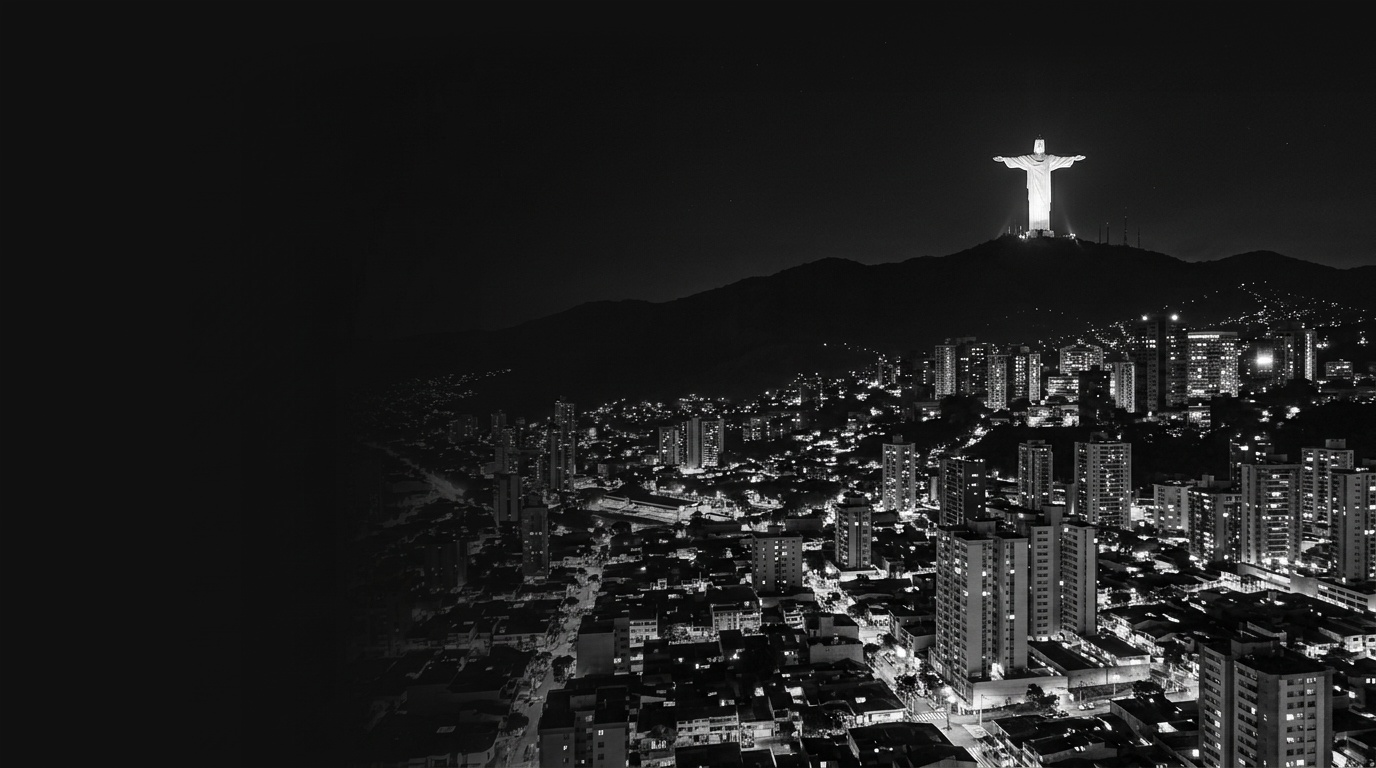
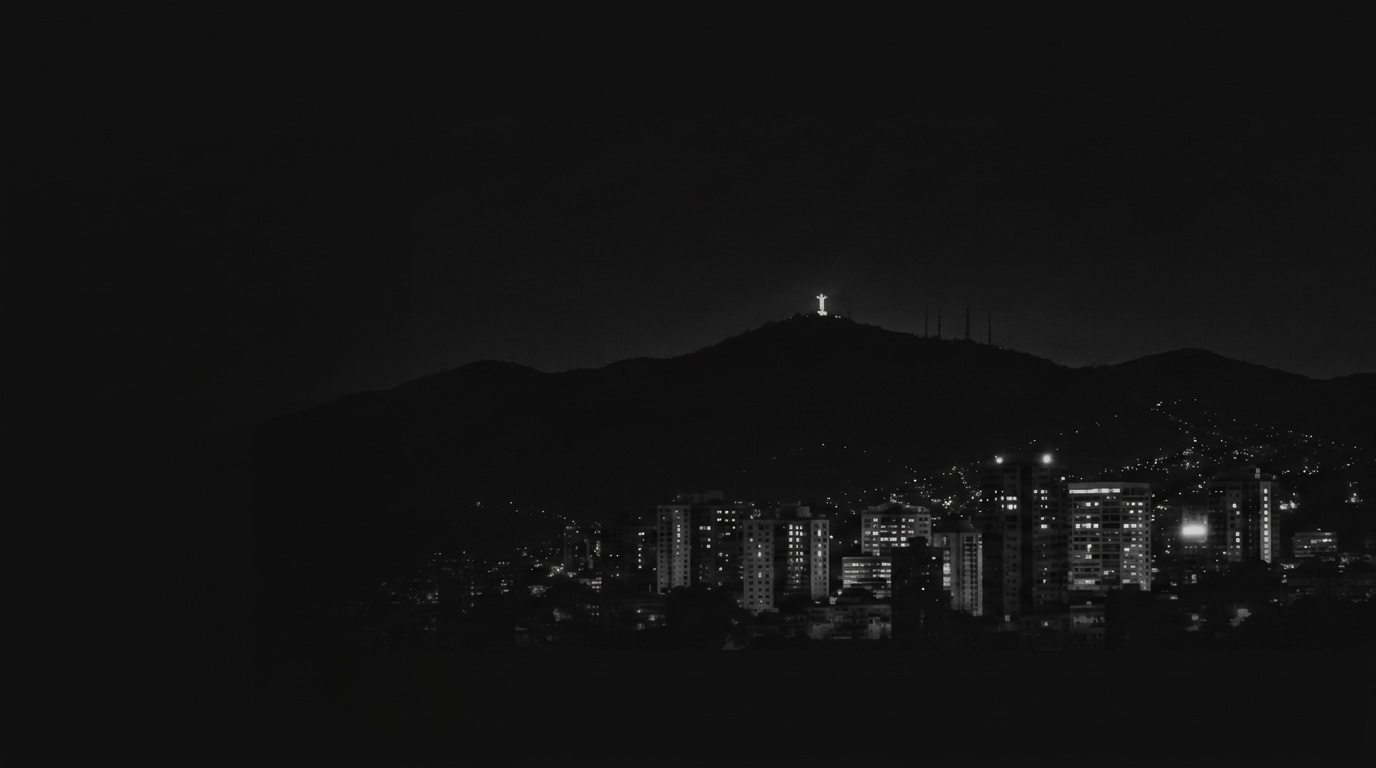
feat(footer): bleed subtle distant Cristo Rey city layer to right edge with zero margins

diff --git a/src/components/layout/Footer.tsx b/src/components/layout/Footer.tsx
@@ -53,6 +53,26 @@ export const Footer: React.FC = () => {
       data-theme="dark"
       className="relative bg-[#111111] text-white w-full overflow-hidden select-none"
     >
+      {/* Desktop Panoramic City Layer - Bleeds completely to the far right edge of the viewport with zero margins */}
+      <div className="hidden lg:block absolute right-0 top-0 h-[520px] xl:h-[560px] 2xl:h-[600px] w-[56vw] min-w-[750px] max-w-[1300px] pointer-events-none select-none overflow-hidden z-0">
+        <picture className="w-full h-full block">
+          <source type="image/webp" srcSet="/cristo-rey-cali-night.webp" />
+          <img
+            src="/cristo-rey-cali-night.jpg"
+            alt="Panorámica nocturna de Cali desde Cristo Rey"
+            className="w-full h-full object-cover object-right-bottom opacity-90 transition-transform duration-1000 ease-out hover:scale-[1.01]"
+            width={1376}
+            height={768}
+            loading="lazy"
+            decoding="async"
+          />
+        </picture>
+        {/* Soft edge overlays to ensure 100% seamless genuine blending into solid #111111 */}
+        <div className="absolute inset-y-0 left-0 w-44 xl:w-56 bg-gradient-to-r from-[#111111] via-[#111111]/85 to-transparent pointer-events-none" />
+        <div className="absolute inset-x-0 top-0 h-24 bg-gradient-to-b from-[#111111] to-transparent pointer-events-none" />
+        <div className="absolute inset-x-0 bottom-0 h-20 bg-gradient-to-t from-[#111111] to-transparent pointer-events-none" />
+      </div>
+
       {/* Expanded Container with reduced side margins to give monumental breathing room */}
       <div className="w-full max-w-[1760px] mx-auto px-6 sm:px-10 lg:px-14 xl:px-16 2xl:px-20 pt-16 sm:pt-20 lg:pt-24 pb-8 flex flex-col justify-between relative z-10">
         
@@ -60,26 +80,6 @@ export const Footer: React.FC = () => {
             PART 1: HERO ZONE (Split: Left Copy + Right Panoramic Night City)
             ======================================================== */}
         <div className="relative min-h-[460px] lg:min-h-[500px] xl:min-h-[540px] flex flex-col justify-between pb-12 sm:pb-14 lg:pb-16">
-          
-          {/* Desktop Panoramic Background Layer */}
-          <div className="hidden lg:block absolute right-0 top-0 bottom-6 w-[58%] xl:w-[62%] 2xl:w-[65%] pointer-events-none select-none overflow-hidden">
-            <picture className="w-full h-full block">
-              <source type="image/webp" srcSet="/cristo-rey-cali-night.webp" />
-              <img
-                src="/cristo-rey-cali-night.jpg"
-                alt="Panorámica nocturna de Cali desde Cristo Rey"
-                className="w-full h-full object-cover object-[right_center] transition-transform duration-1000 ease-out hover:scale-[1.02]"
-                width={1376}
-                height={768}
-                loading="lazy"
-                decoding="async"
-              />
-            </picture>
-            {/* Smooth edge overlays to guarantee flawless blend into #111111 */}
-            <div className="absolute inset-y-0 left-0 w-32 bg-gradient-to-r from-[#111111] via-[#111111]/70 to-transparent pointer-events-none" />
-            <div className="absolute inset-x-0 top-0 h-16 bg-gradient-to-b from-[#111111] to-transparent pointer-events-none" />
-            <div className="absolute inset-x-0 bottom-0 h-16 bg-gradient-to-t from-[#111111] to-transparent pointer-events-none" />
-          </div>
 
           {/* Upper Content Row: Left Hero Copy */}
           <div className="relative z-10 w-full lg:w-[48%] xl:w-[46%] 2xl:w-[44%] flex flex-col items-start justify-center space-y-6 sm:space-y-7 pt-2 lg:pt-4">
